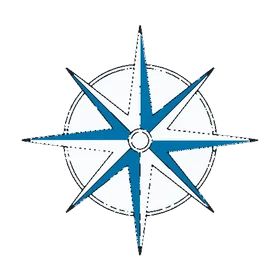
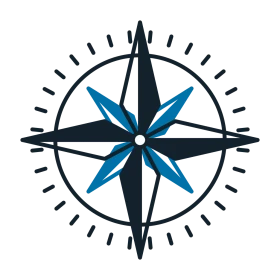
feat(marca): rosa de los vientos geométrica (04b) en el pie
public/marca/rosa-vientos.webp a 280 px con transparencia, desde la 04b
del generador (dibujada por código, ocho puntas, un solo grosor);
sustituye a la provisional. Fila en «Entregados» de docs/marca.md y
bitácora al día. npm run check en verde.

Siguiente: esperar las portadas 31 (Workflow) y 32 (GVIG) del generador

diff --git a/docs/marca.md b/docs/marca.md
@@ -184,6 +184,7 @@ La vista previa (`og`) de un proyecto es siempre `tools/og/fuentes/<slug>/og-fue
 | 29 | 2026-11-13 | `public/marca/banda-participar.webp` (1600×400) y `-mini.webp` (800), con el papel crema blanqueado al convertir (`ffmpeg colorlevels`) para que case con `--superficie` | Fondo del aviso «¿Quieres participar?» de la ficha (`.participar-banda`), **solo en el tema claro**: en escritorio, a 4:1 con el texto en la mitad izquierda; en el móvil, encima del texto (120 px, recorta papel de la izquierda). En el oscuro, su versión `banda-participar-oscura.webp` (y `-mini`), con el fondo noche subido a `--superficie` (#111f29) con `ffmpeg colorlevels=romin=0.0165:gomin=0.0427:bomin=0.0614` para que no se vea el recuadro (la persona, 2026-11-13). Solo con la colaboración abierta; hasta 900 px, encima del texto |
 | 30 | 2026-11-13 | `public/marca/cabecera-novedades.webp` (1600×400) y `-mini.webp` (800) | Arriba de `/novedades`, como la del equipo (clase común `.banda-cabecera`) |
 | 4, 5 | 2026-11-13 | `public/marca/rosa-vientos.webp` y `sello.webp` (rosa a 280 px y sello a 144 px, con transparencia; no son los `.svg` que proponía la tabla de arriba) | Rosa: marca de agua al 12 % en la esquina inferior derecha del pie (`.pie-rosa`). Sello (05b con el monograma GV, 2026-11-13, de su SVG de una tinta a 144 px con transparencia): a 72 px junto a «Galicia + Develop» de «Cómo trabajamos» del inicio (`.sobre-sello`). En el tema oscuro, en negativo por CSS. Sitios elegidos por la persona (2026-11-13: «me vale»). **Provisional la rosa:** el generador la rechazó y la dibujará geométrica |
+| 4 (geométrica) | 2026-11-13 | `public/marca/rosa-vientos.webp` (280 px, `cwebp -q 90 -alpha_q 100`, desde `04b-rosa-vientos.png`, 1024 px con transparencia; dibujada por código con `gimg brand rose`, ocho puntas, un solo grosor) | El mismo sitio que la fila anterior (`.pie-rosa`); sustituye a la rosa provisional |
 
 Por CSS, sin imagen (cancelados en el generador, 2026-11-11): 11, 16, 20 y 21 (el pie, cerúleo liso); la 22 no sale de gimg y el fondo sigue en color plano. La 14 se rehízo y llegó el 2026-11-12.
 

diff --git a/docs/handoff.md b/docs/handoff.md
@@ -8,8 +8,8 @@ Se actualiza en cada commit. Reglas en [`CLAUDE.md`](../CLAUDE.md).
 |---|---|
 | **Actualizado** | 2026-11-13 (lote 25-30, rosa y sello, en `main`) |
 | **Rama de trabajo** | `claude/galivelop-dev-portal-1h89ci` (la que publica la tarea semanal); esta sesión, `ccr-47f8fddd-o5ek6p` (al día con `main`, 2026-11-13) |
-| **Tarea en curso** | Ninguna. El lote del generador del 2026-11-13 está en `main`; solo falta la rosa (04b), que el generador rehará geométrica. Presupuesto de compactaciones: 1 |
-| **Siguiente paso** | Cuando llegue la rosa, `public/marca/rosa-vientos.webp` a 280 px con transparencia. Siguen en cola 10b, las versiones oscuras de 10, 18, 19, 27 y 28 y las portadas 31 (Workflow) y 32 (GVIG), pedidas el 2026-11-13 (`docs/marca.md`, tabla F) |
+| **Tarea en curso** | Ninguna. El lote del generador del 2026-11-13 está en `main`; la rosa geométrica (04b) llegó el 2026-11-13 y está en la rama, aún no en `main`. Presupuesto de compactaciones: 1 |
+| **Siguiente paso** | La rosa geométrica (04b) ya está en `public/marca/rosa-vientos.webp` (2026-11-13; sin subir a `main`). Siguen en cola 10b, las versiones oscuras de 10, 18, 19, 27 y 28 y las portadas 31 (Workflow) y 32 (GVIG), pedidas el 2026-11-13 (`docs/marca.md`, tabla F) |
 | **En `main`** | **Iconos de grupo (25), marcadores del avance (26), banda 29 clara y oscura, cabecera 30, rosa y sello** (f7ce483, 2026-11-13, la persona: «llévalo a main»; fase 1 y 3, sin retro por ser cambio pequeño; CI en verde en edbdd74). Lo anterior, en «Hecho» y en `git log origin/main`. https://zeldris.github.io/Portal-Galivelop/ |
 | **Tests** | `npm run check`: tsc 0 errores, `prettier --check` de `src/`, vitest 202/202 (23 archivos) y `tools/qa/tests/test-ganchos.sh`. `npm run build` correcto (42 páginas estáticas, sitemap, robots y llms) |
 
